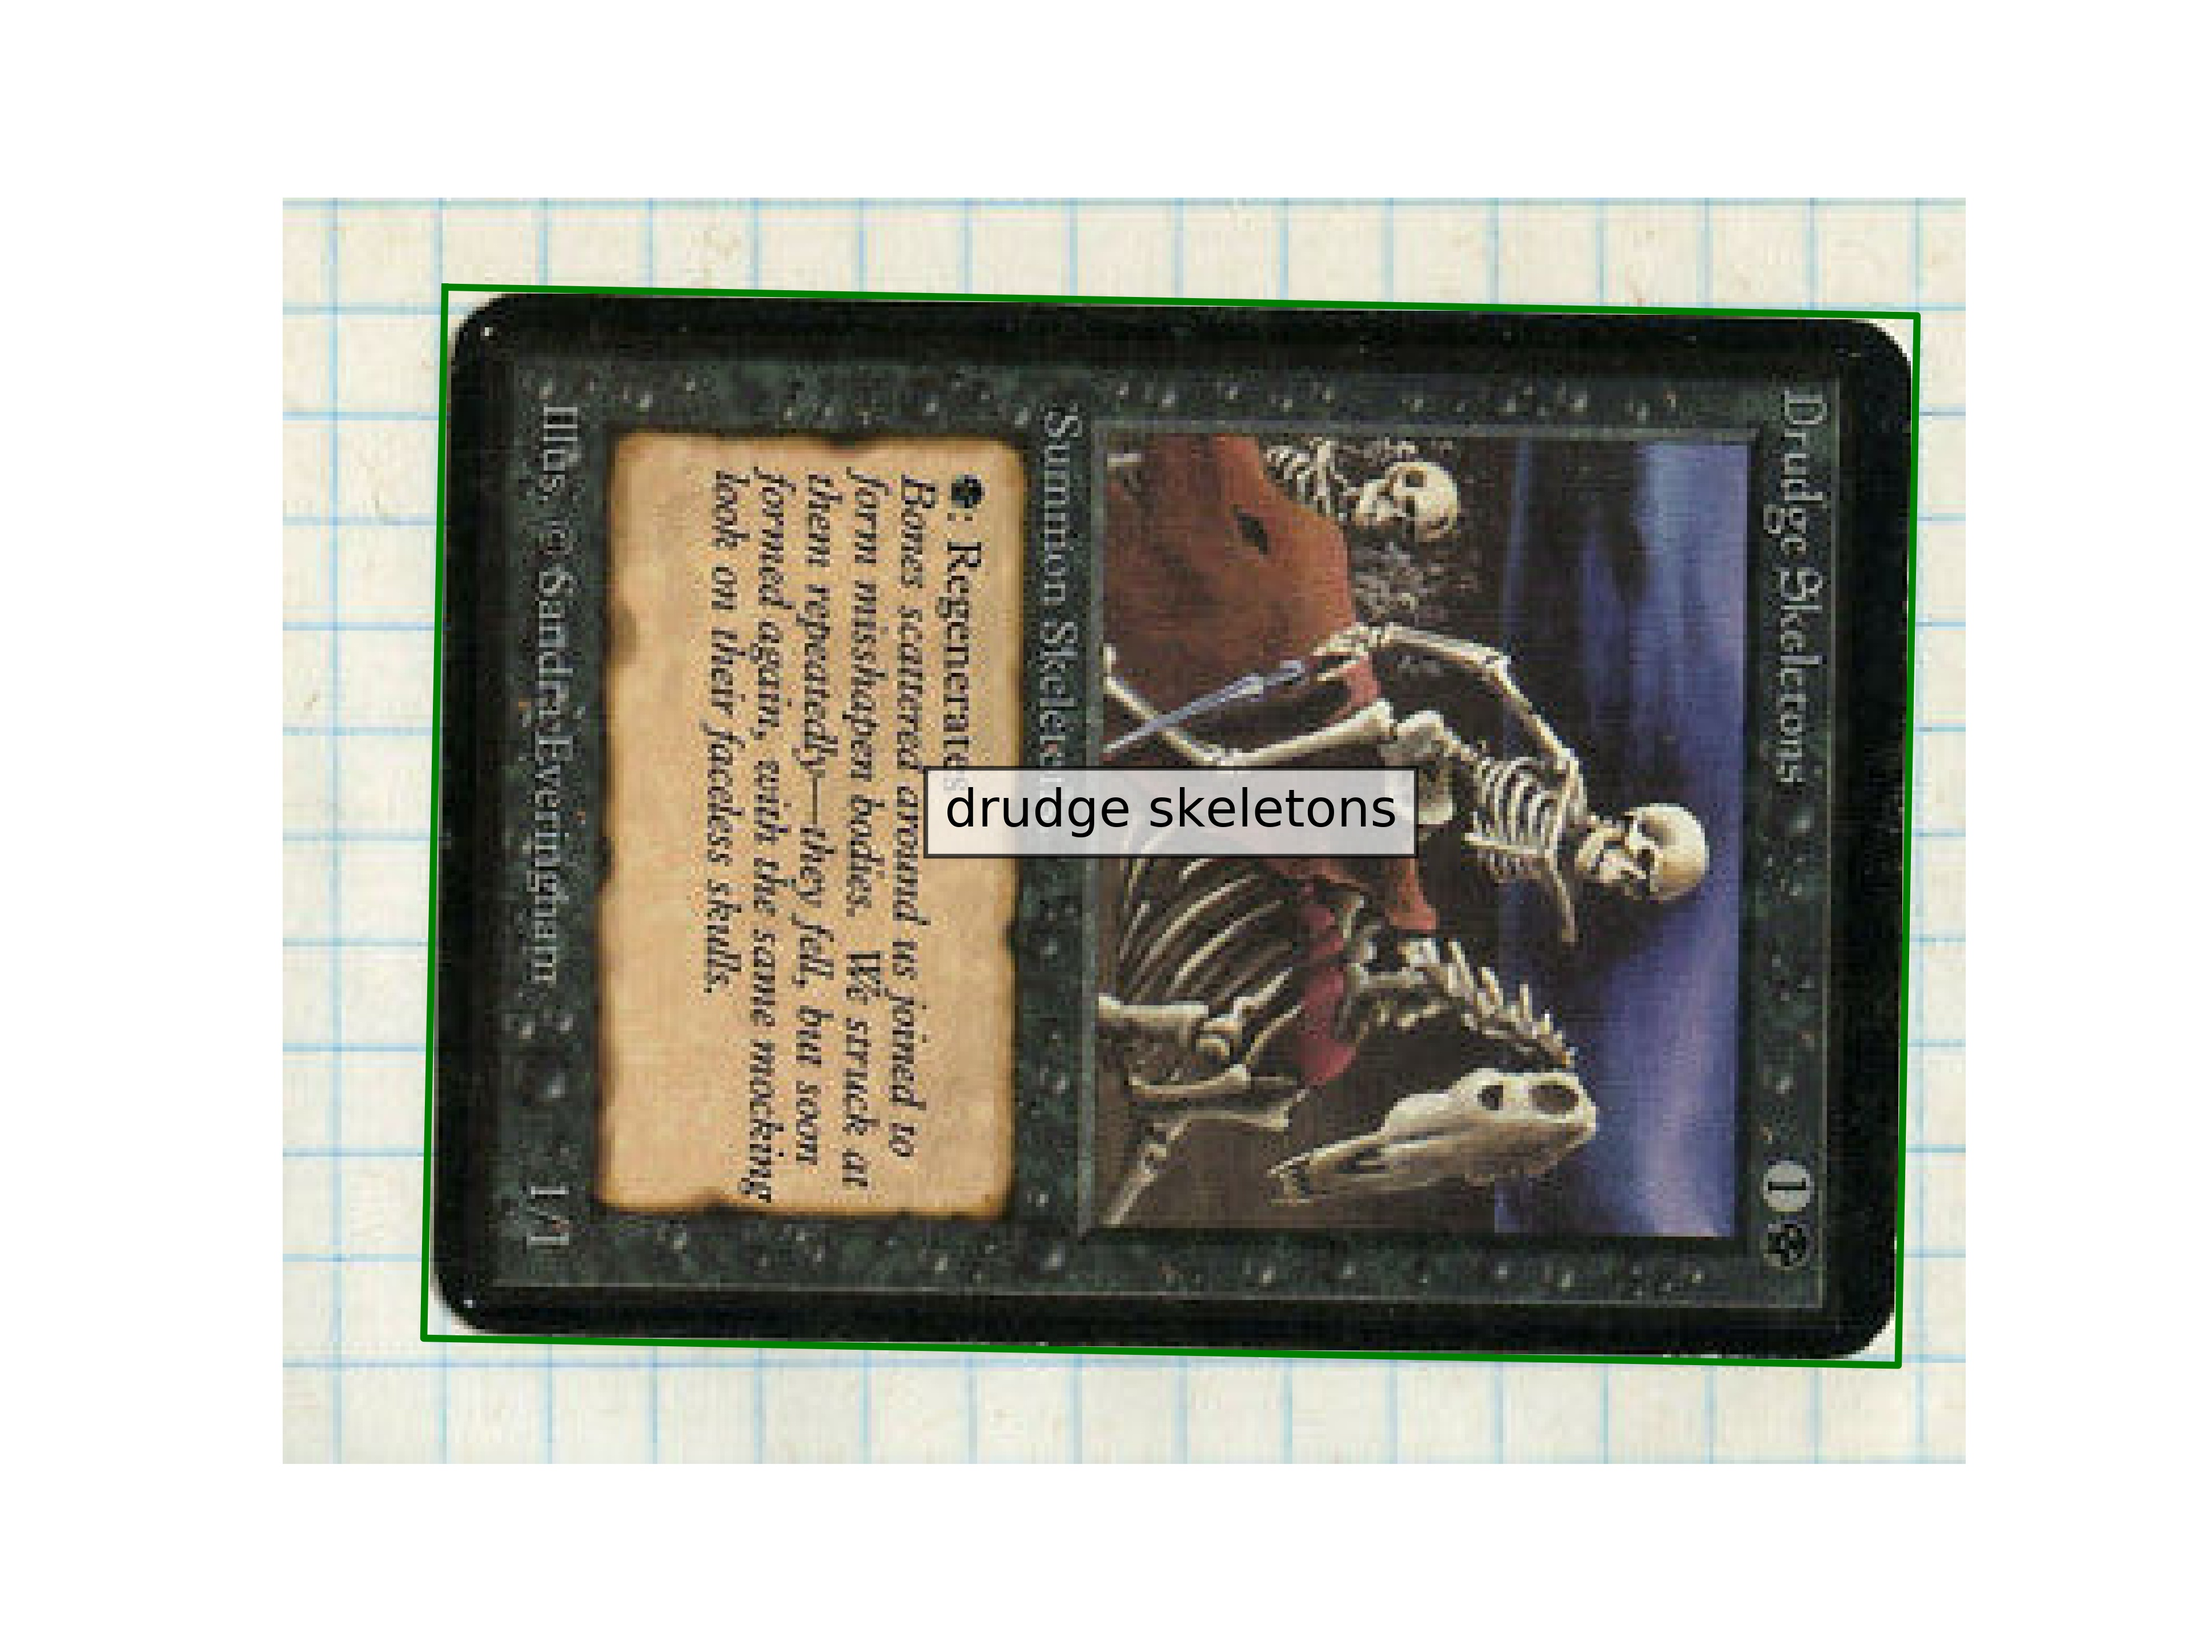
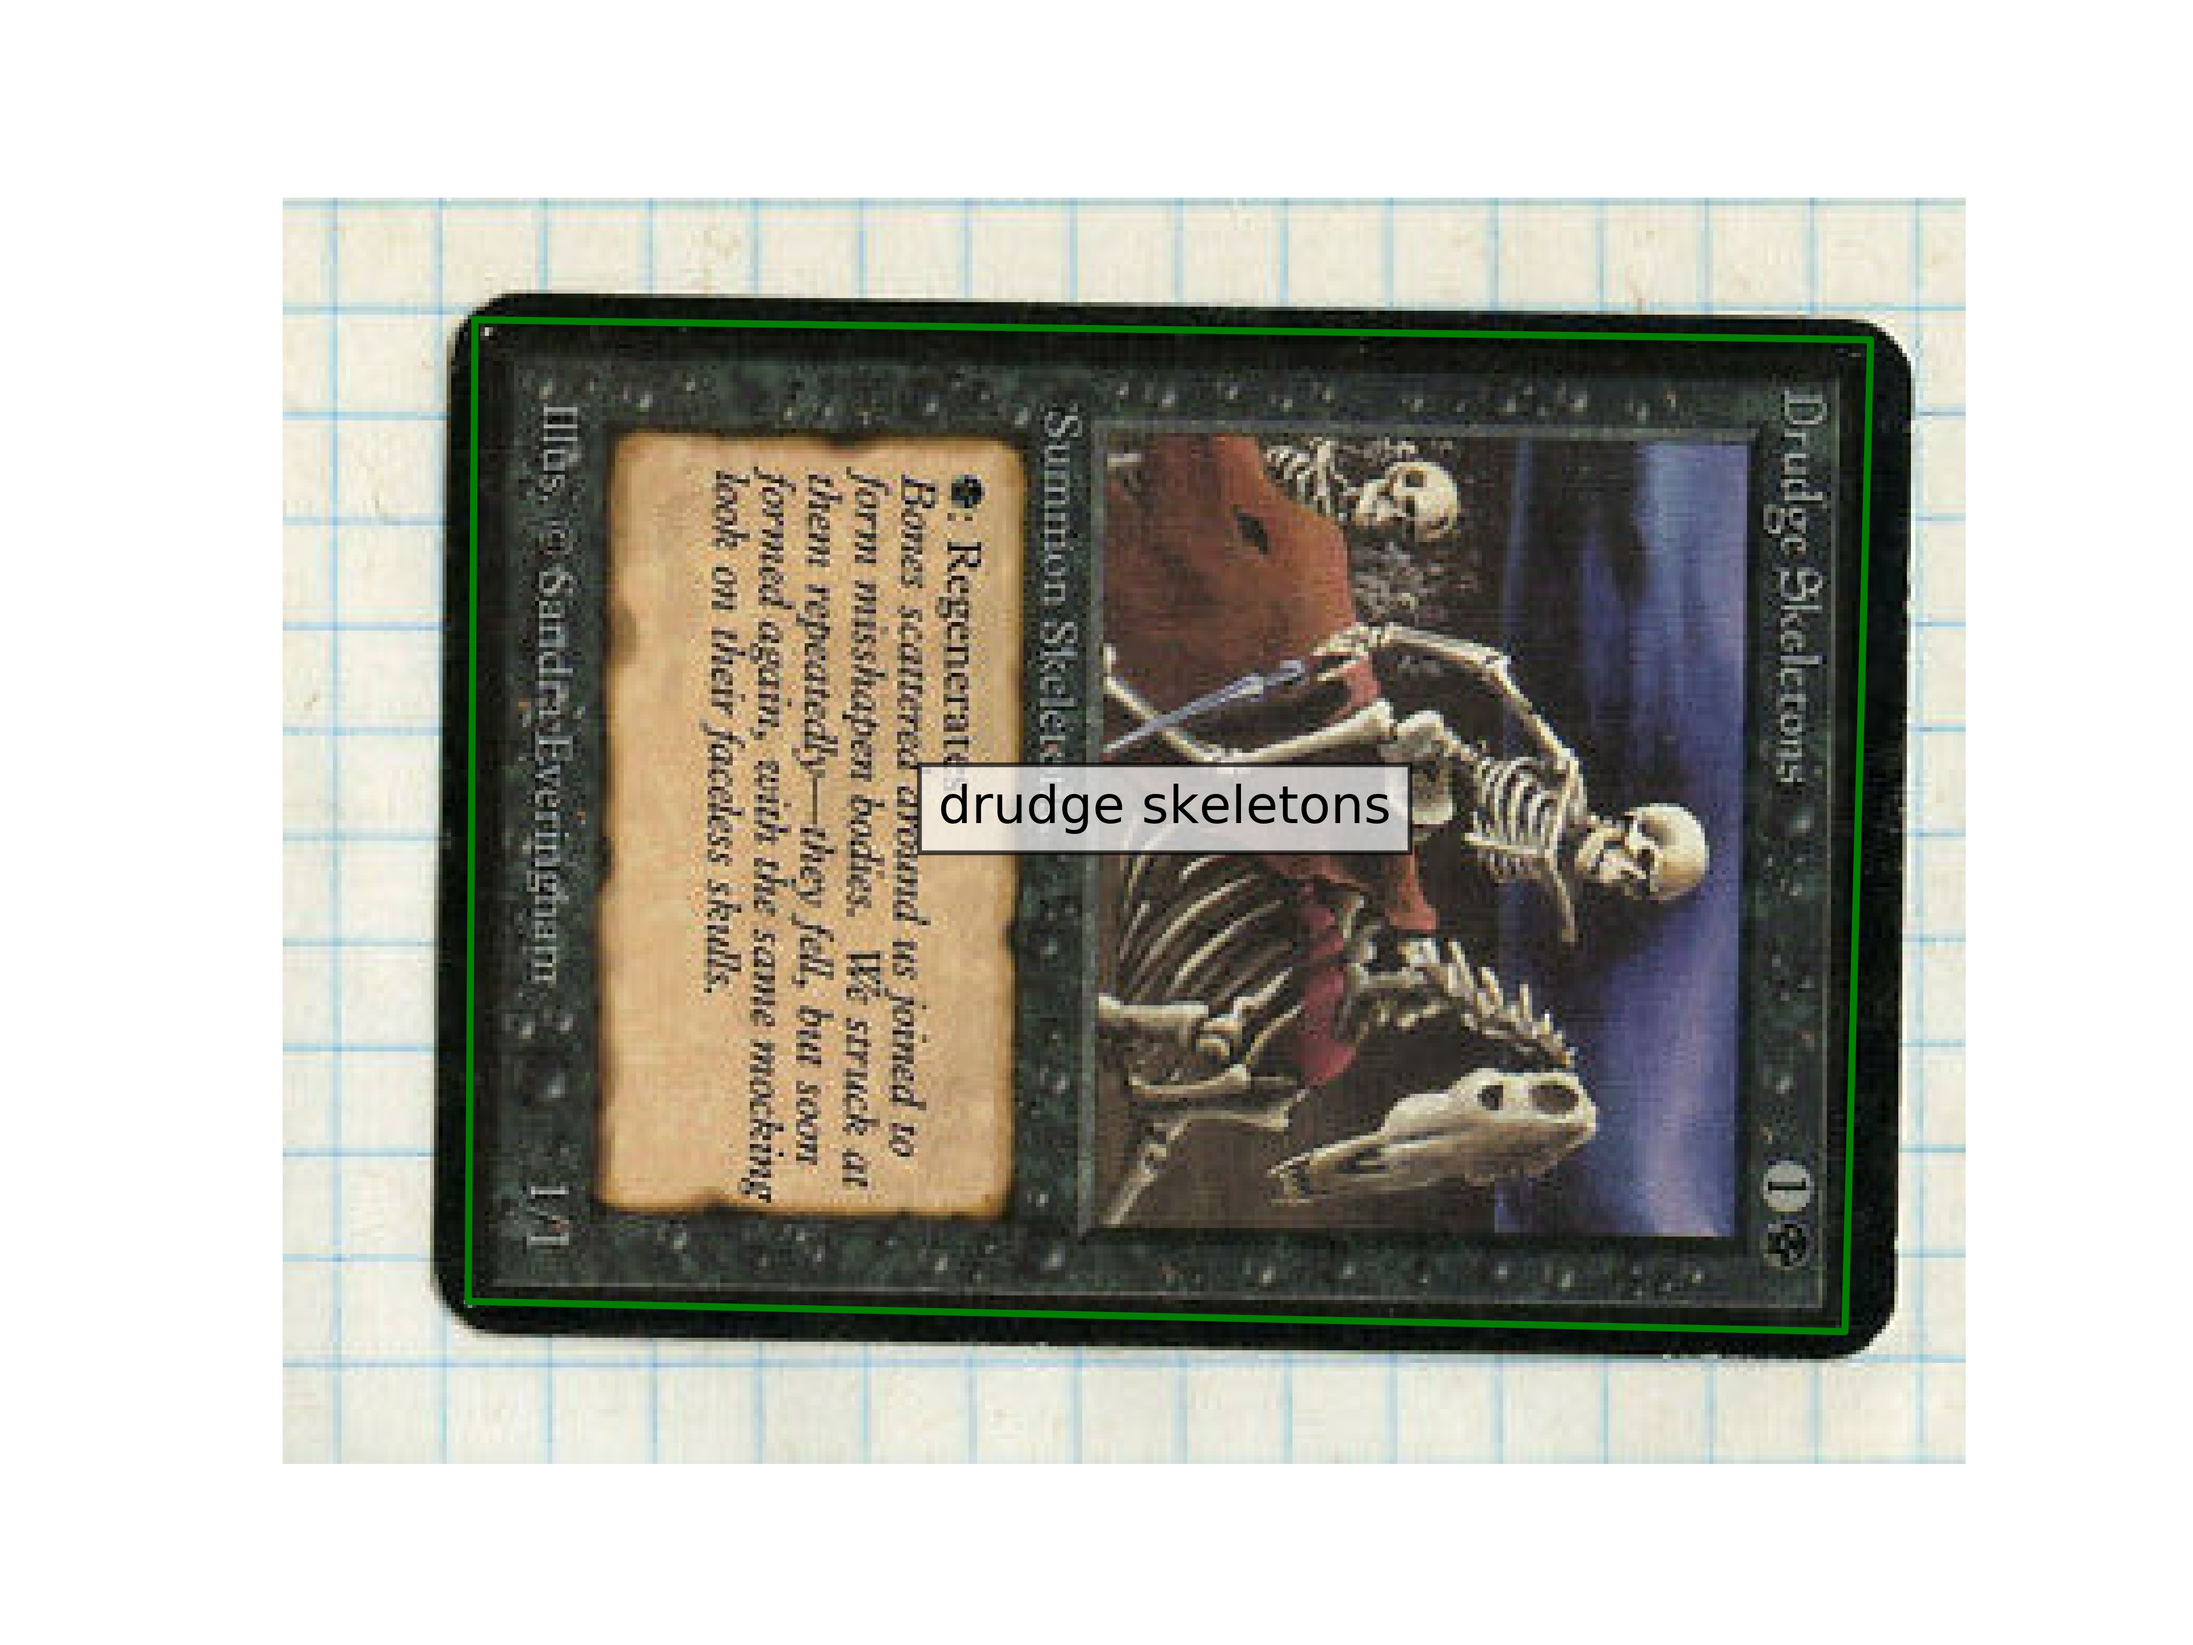
Added logic to support multiple algs. Added more test images.

Changed region(s): [[0.1875, 0.1562, 0.875, 0.8438], [0.4062, 0.4375, 0.6562, 0.5312]]

diff --git a/magic_card_detector.py b/magic_card_detector.py
@@ -7,6 +7,7 @@ import cProfile
 import pstats
 import io
 import pickle
+from copy import deepcopy
 from itertools import product
 
 import numpy as np
@@ -383,7 +384,8 @@ class CardCandidate:
         Returns whether the bounding polygon of the card candidate
         contains the bounding polygon of the other candidate.
         """
-        return other.bounding_quad.within(self.bounding_quad)
+        return bool(other.bounding_quad.within(self.bounding_quad) and
+                    other.name == self.name)
 
 
 class ReferenceImage:
@@ -524,7 +526,9 @@ class TestImage:
               str(len(recognized_list)) +
               ' cards):')
         for card in recognized_list:
-            print(card.name)
+            print(card.name +
+                  '  - with score ' +
+                  str(card.recognition_score))
 
     def return_recognized(self):
         """
@@ -535,6 +539,36 @@ class TestImage:
             if candidate.is_recognized and not candidate.is_fragment:
                 recognized_list.append(candidate)
         return recognized_list
+
+    def discard_unrecognized_candidates(self):
+        """
+        Trims the candidate list to keep only the recognized ones
+        """
+        recognized_list = deepcopy(self.return_recognized())
+        self.candidate_list.clear()
+        self.candidate_list = recognized_list
+
+    def may_contain_more_cards(self):
+        """
+        Simple area-based test to see if using a different segmentation
+        algorithm may lead to finding more cards in the image.
+        """
+        recognized_list = self.return_recognized()
+        if len(recognized_list) == 0:
+            return True
+        tot_area = 0.
+        min_area = 1.
+        for card in recognized_list:
+            tot_area += card.image_area_fraction
+            if card.image_area_fraction < min_area:
+                min_area = card.image_area_fraction
+        if tot_area + 1.5 * min_area > 1.:
+            return False
+        else:
+            return True
+
+
+
 
 
 class MagicCardDetector:
@@ -627,13 +661,13 @@ class MagicCardDetector:
         gray = cv2.cvtColor(full_image, cv2.COLOR_BGR2GRAY)
         if thresholding == 'adaptive':
             fltr_size = 1 + 2 * (min(full_image.shape[0],
-                                     full_image.shape[1]) // 8)
+                                     full_image.shape[1]) // 20)
             thresh = cv2.adaptiveThreshold(gray,
                                            255,
                                            cv2.ADAPTIVE_THRESH_GAUSSIAN_C,
                                            cv2.THRESH_BINARY,
                                            fltr_size,
-                                           20)
+                                           10)
         elif thresholding == 'otsu':
             gray = cv2.GaussianBlur(gray,(3,3),0)
             _, thresh = cv2.threshold(gray,
@@ -645,7 +679,7 @@ class MagicCardDetector:
                                       70,
                                       255,
                                       cv2.THRESH_BINARY)
-        if self.visual:
+        if self.visual and self.verbose:
             plt.imshow(thresh)
             plt.show()
 
@@ -671,6 +705,13 @@ class MagicCardDetector:
         _, contours_r, _ = cv2.findContours(
             np.uint8(thr_r), cv2.RETR_TREE, cv2.CHAIN_APPROX_SIMPLE)
         contours = contours_b + contours_g + contours_r
+        if self.visual and self.verbose:
+            plt.imshow(thr_r)
+            plt.show()
+            plt.imshow(thr_g)
+            plt.show()
+            plt.imshow(thr_b)
+            plt.show()
         return contours
 
     def contour_image(self, full_image, mode='gray'):
@@ -711,11 +752,20 @@ class MagicCardDetector:
 
         contours = self.contour_image(full_image, mode=contouring_mode) 
         for card_contour in contours:
-            (continue_segmentation,
-             is_card_candidate,
-             bounding_poly,
-             crop_factor) = characterize_card_contour(
-                 card_contour, max_segment_area, image_area)
+            try:
+                (continue_segmentation,
+                 is_card_candidate,
+                 bounding_poly,
+                 crop_factor) = characterize_card_contour(
+                    card_contour, max_segment_area, image_area)
+            except NotImplementedError as nie:
+                # this can occur in Shapely for some funny contour shapes
+                # resolve by discarding the candidate
+                print(nie)
+                (continue_segmentation,
+                 is_card_candidate,
+                 bounding_poly,
+                 crop_factor) = (True, False, None, 1.)
             if not continue_segmentation:
                 break
             if is_card_candidate:
@@ -793,9 +843,8 @@ class MagicCardDetector:
 
     def run_recognition(self, image_index):
         """
-        Tries to recognize cards from the image specified.
-        The image has been read in and adjusted previously,
-        and is contained in the internal data list of the class.
+        The top-level image recognition method.
+        Wrapper for switching to different algorithms and re-trying.
         """
         test_image = self.test_images[image_index]
 
@@ -804,11 +853,33 @@ class MagicCardDetector:
             plt.imshow(cv2.cvtColor(test_image.original,
                                     cv2.COLOR_BGR2RGB))
             plt.show()
+        
+        alg_list = ['adaptive', 'rgb']
 
+        for alg in alg_list:
+            self.recognize_cards_in_image(test_image, alg)
+            test_image.discard_unrecognized_candidates()
+            if (not test_image.may_contain_more_cards() or
+                len(test_image.return_recognized()) > 5):
+                break
+
+        print('Plotting and saving the results...')
+        test_image.plot_image_with_recognized(self.visual)
+        print('Done.')
+        test_image.print_recognized()
+        print('Recognition done.')
+
+    def recognize_cards_in_image(self, test_image, contouring_mode):
+        """
+        Tries to recognize cards from the image specified.
+        The image has been read in and adjusted previously,
+        and is contained in the internal data list of the class.
+        """
         print('Segmentating card candidates out of the image...')
+        print('Using ' + str(contouring_mode) + ' algorithm.')
 
         test_image.candidate_list.clear()
-        self.segment_image(test_image, contouring_mode='adaptive')
+        self.segment_image(test_image, contouring_mode=contouring_mode)
 
         print('Done. Found ' +
               str(len(test_image.candidate_list)) + ' candidates.')
@@ -834,15 +905,13 @@ class MagicCardDetector:
         print('Done. Found ' +
               str(len(test_image.return_recognized())) +
               ' cards.')
+        if self.verbose:
+            for card in test_image.return_recognized():
+                print(card.name + '; S = ' + str(card.recognition_score))
         print('Removing duplicates...')
         # Final fragment detection
         test_image.mark_fragments()
         print('Done.')
-        print('Plotting and saving the results...')
-        test_image.plot_image_with_recognized(self.visual)
-        print('Done.')
-        test_image.print_recognized()
-        print('Recognition done.')
 
 
 def main():
@@ -856,12 +925,13 @@ def main():
 
     do_profile = False
     card_detector.visual = True
+    card_detector.verbose = False
 
     # Read the reference and test data sets
     # card_detector.read_and_adjust_reference_images(
     #     '../../MTG/Card_Images/LEA/')
     card_detector.read_prehashed_reference_data('./alpha_reference_phash.dat')
-    card_detector.read_and_adjust_test_images('../MTG_alpha_test_images/')
+    card_detector.read_and_adjust_test_images('../MTG_alpha_test_images2/')
 
     if do_profile:
         # Start up the profiler.
@@ -875,8 +945,9 @@ def main():
     # 6 = instill energy
 
 
-    for im_ind in range(7, 8):
+    for im_ind in range(0, 23):
         card_detector.run_recognition(im_ind)
+    #card_detector.run_recognition(3)
 
     if do_profile:
         # Stop profiling and organize and print profiling results.
